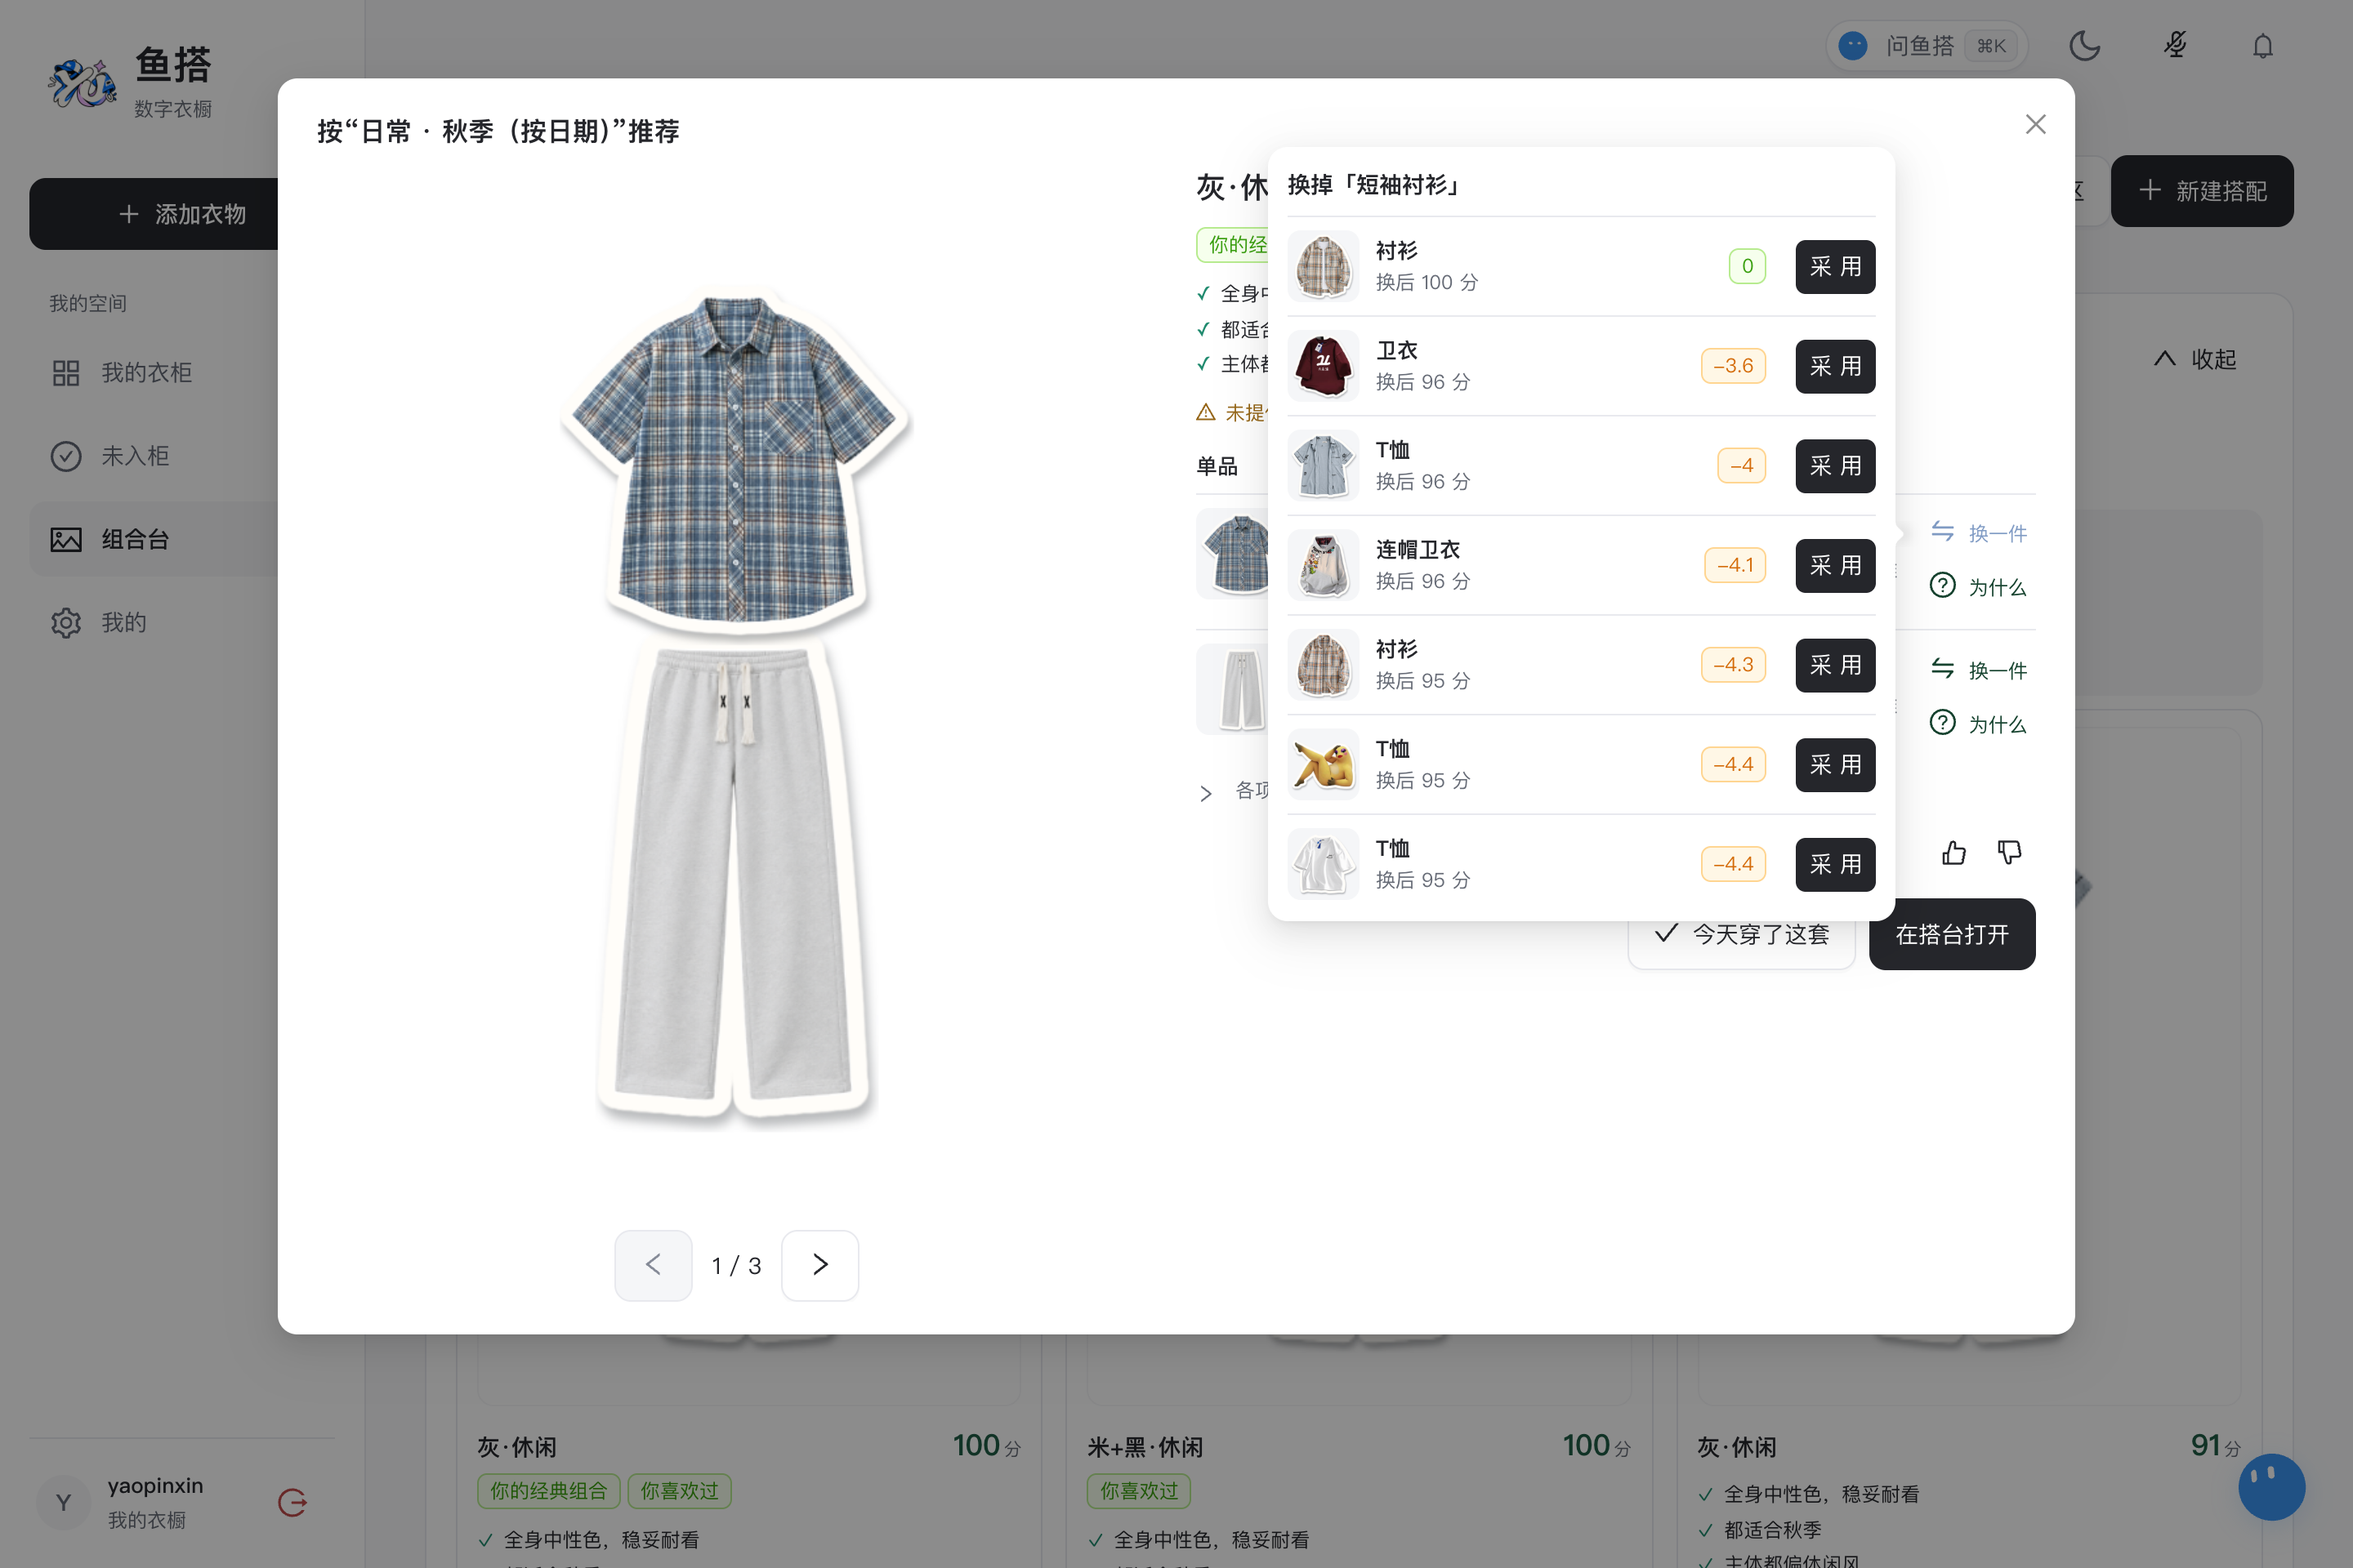
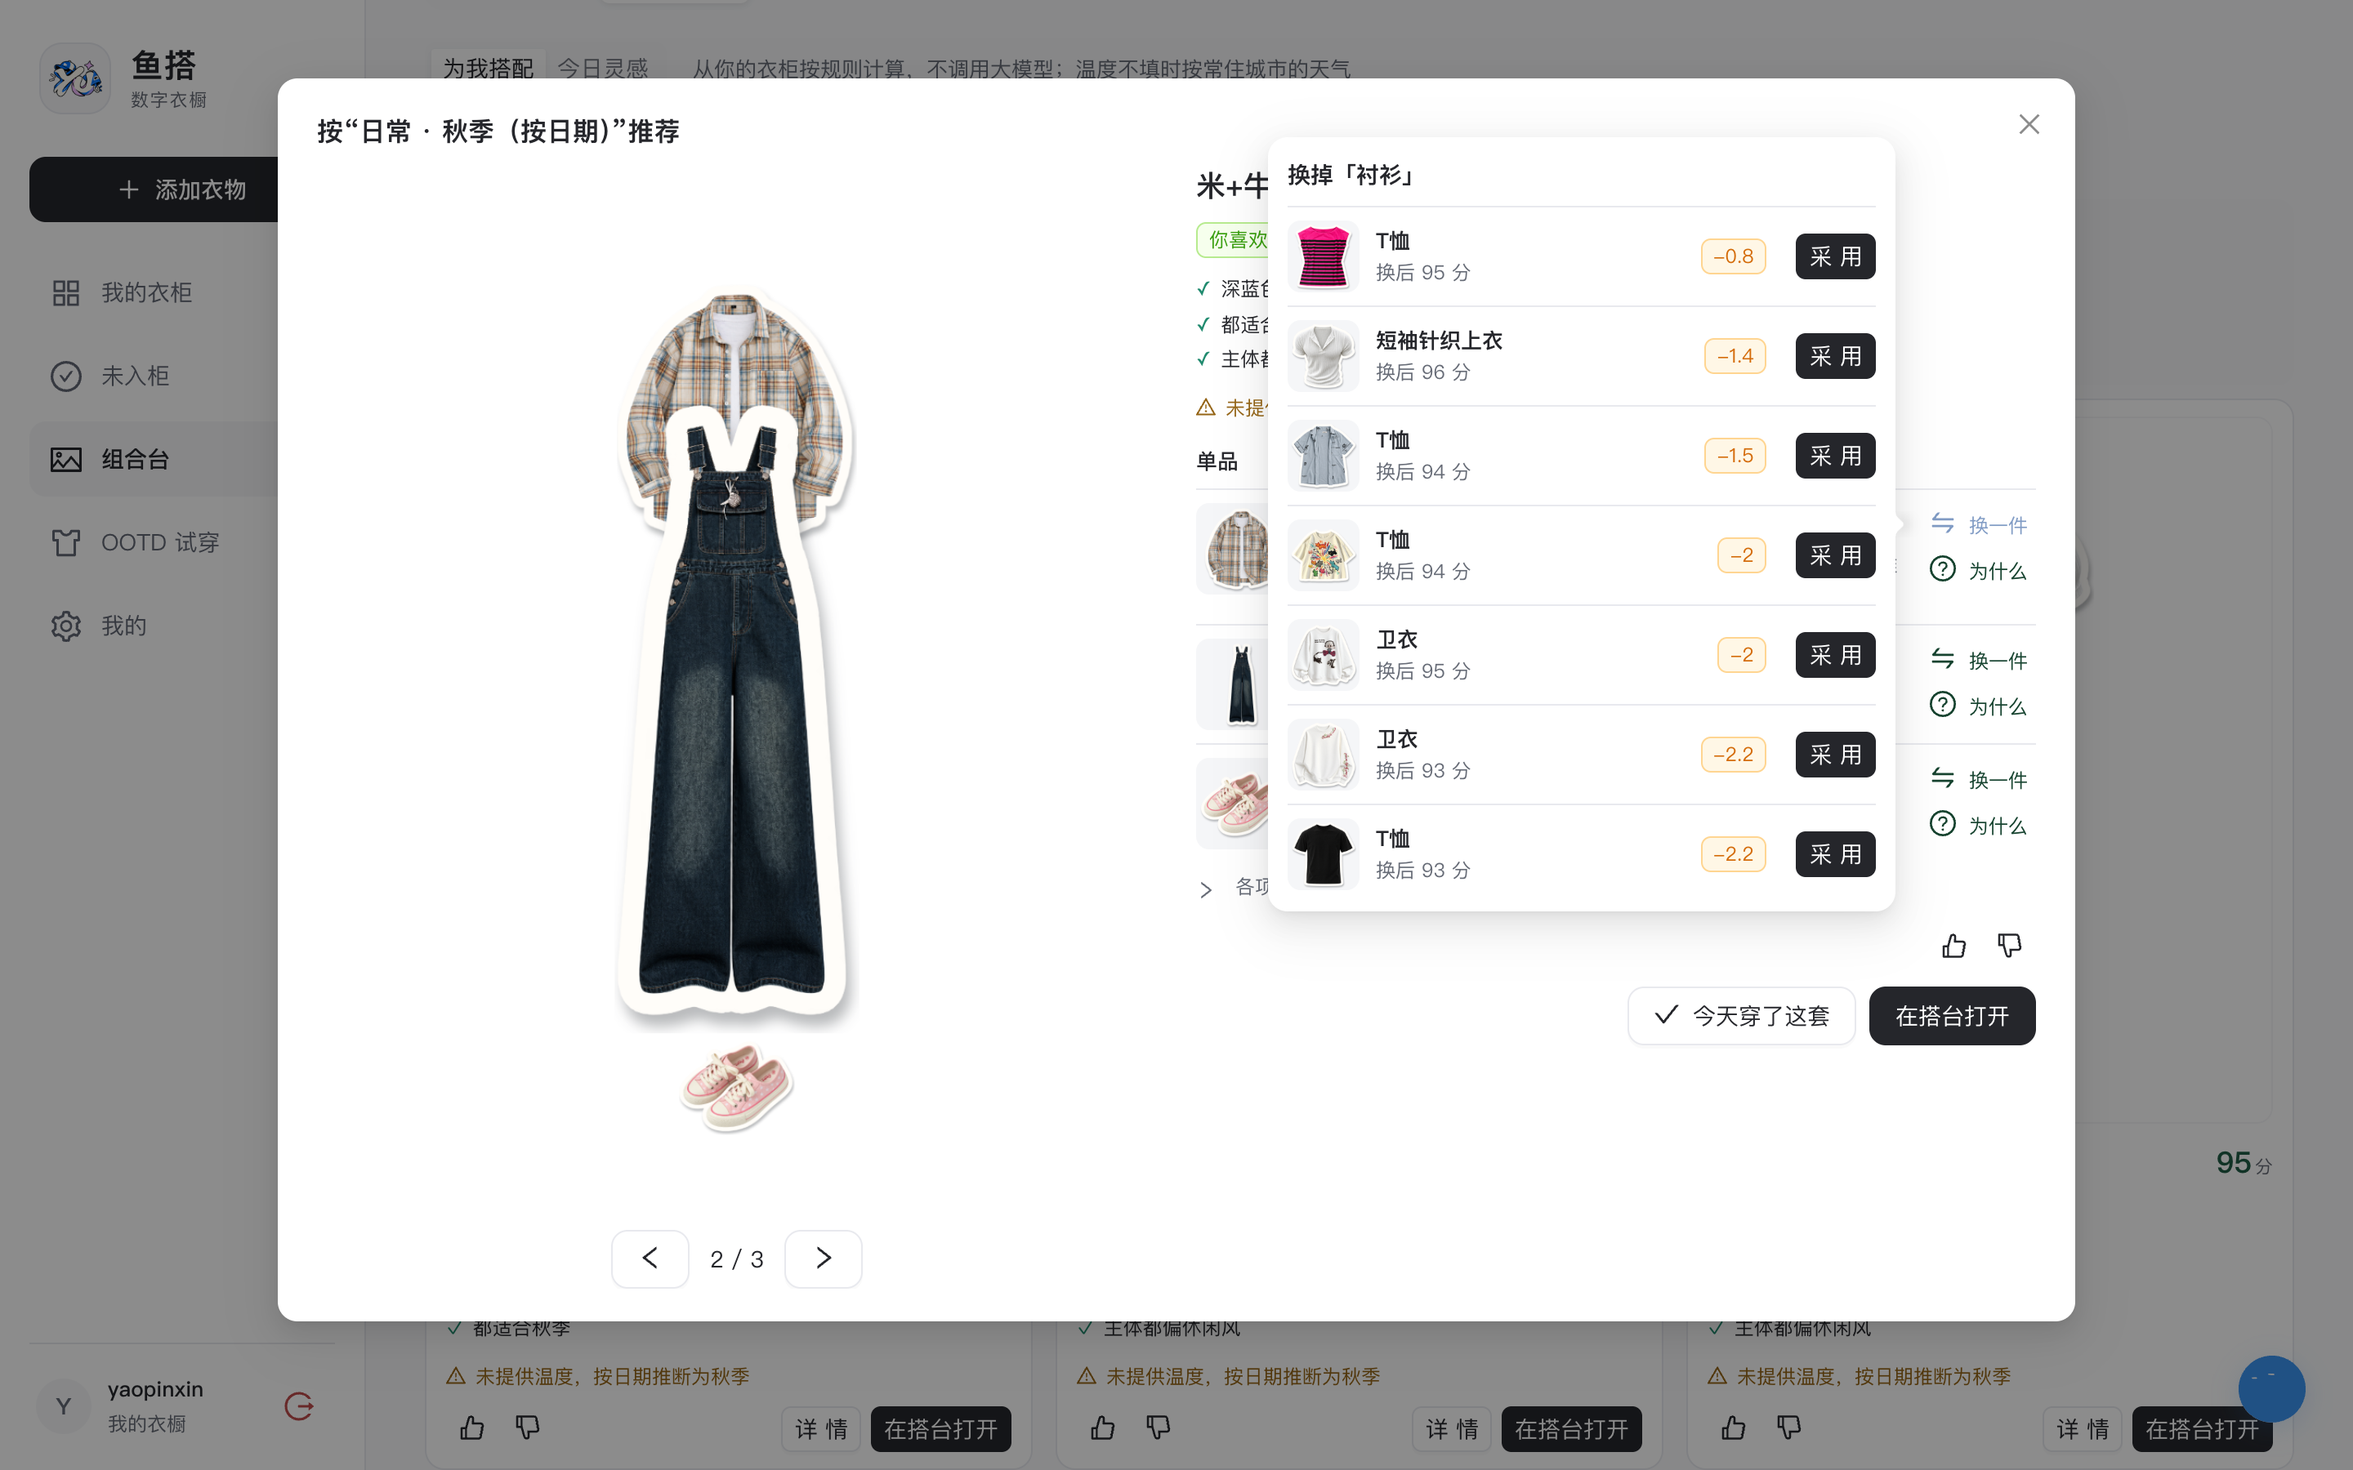
docs: 用真实账号重拍界面截图；正式版作品介绍改在思源维护

diff --git a/作品介绍文档/README.md b/作品介绍文档/README.md
@@ -11,3 +11,7 @@
 3. 分页使用 `<div style="page-break-after: always;"></div>`，Typora / 浏览器打印均可识别。
 4. 第 6.4 节的 3 项后端失败用例是 2026-10-18 本机运行结果，复核后请同步修改数字。
 5. 部分截图早于 10-16 之后的界面更新（图注已标明），若重拍可直接替换同名文件。
+
+## 正式版在思源笔记
+
+2026-10-18 起正式版写在思源「草稿板 / 项目介绍文档」（ID `20261018225009-eoetkgf`），使用思源原生语法（提示块、超级块、公式块、块引用目录、分页样式），在思源中导出 PDF。本目录的 Markdown 为早期草稿；`images/` 中的界面截图已于 10-18 用真实账号重拍，与思源文档一致。

diff --git a/作品介绍文档/鱼搭作品介绍文档.md b/作品介绍文档/鱼搭作品介绍文档.md
@@ -1,5 +1,4 @@
 <div align="center">
-
 # 鱼搭：可解释的 AI 数字衣柜与穿搭决策系统
 
 ### 作品介绍文档
